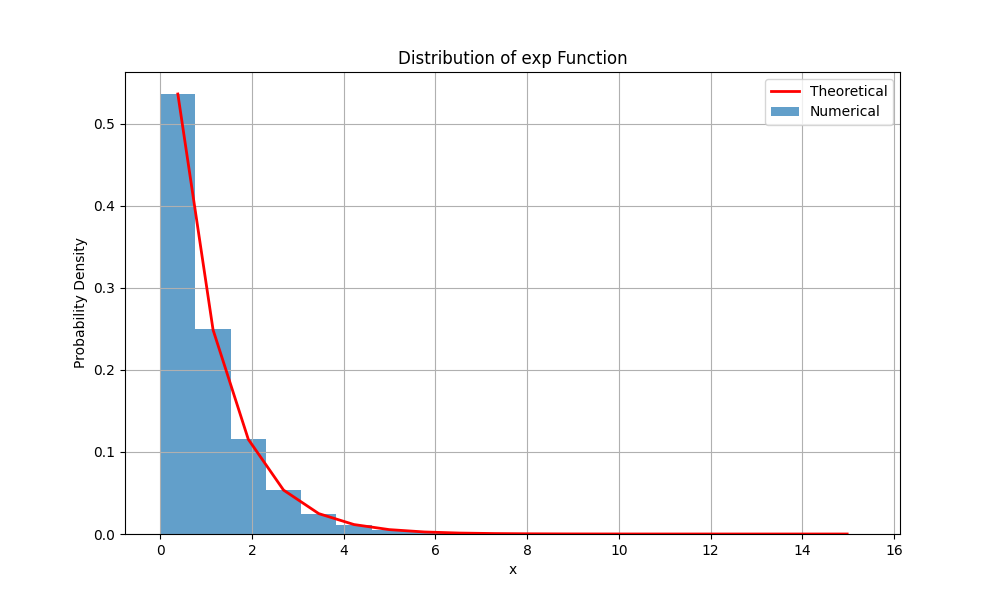
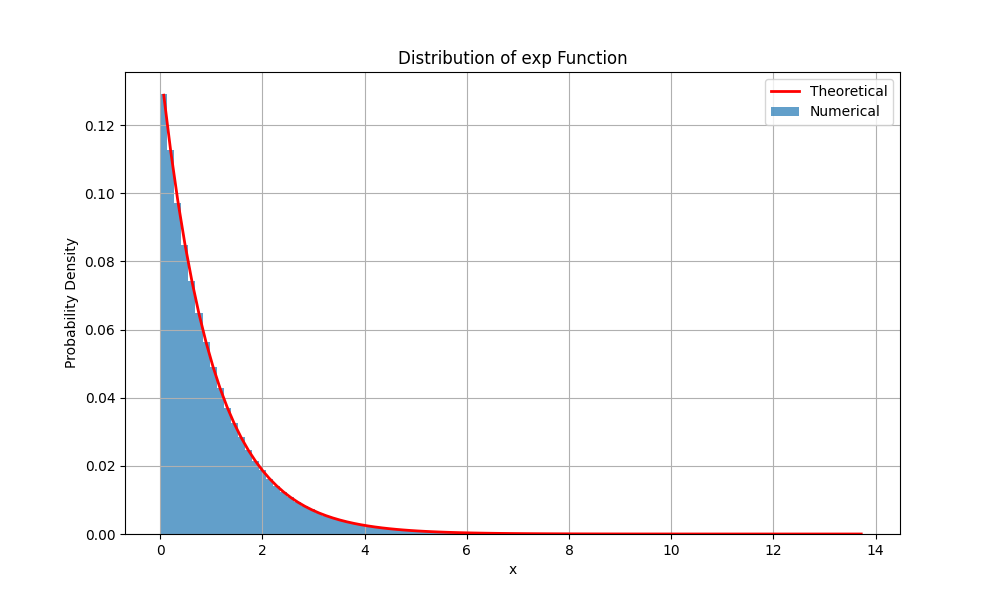
ex9p3

diff --git a/exercise09/gaussrng.cpp b/exercise09/gaussrng.cpp
@@ -1,0 +1,144 @@
+#include <iostream>
+#include <string>
+#include <random>
+#include <fstream>
+#include <chrono>
+#include <vector>
+#include <numeric>
+#include <algorithm>
+#include <sstream>
+#include <Eigen/Core>
+#include "eigenpy/eigenpy.hpp"
+using Eigen::MatrixXd;
+
+#define OFFSET_FROM_EXTREMES 0.1
+
+using namespace std;
+using namespace Eigen;
+
+// Random number generator
+auto seed = chrono::high_resolution_clock::now().time_since_epoch().count();
+mt19937 mt(seed);
+uniform_real_distribution<double> dist(0.0, 1.0);
+
+double getRandomUniform() {
+    return dist(mt);
+}
+
+/**
+ * @file gaussrng.cpp
+ * @brief Hard-coded Lorentz distribution function
+ * @param x x-axis value
+ * @param lambda rate parameter
+ */
+
+double lorentzDist(double x, double lambda) {
+    return (1.0 / M_PI) * (lambda / ((x * x) + (lambda * lambda)));
+}
+
+/**
+ * @file gaussrng.cpp
+ * @brief Box-Muller transform to generate Gaussian random numbers
+ * @param mu mean of the distribution
+ * @param sigma standard deviation of the distribution
+ * @return Returns a random number from a Gaussian distribution
+ */
+pair<double, double> gaussrng(double mu, double sigma) {
+    double z0, z1;
+    // Generate two uniform random numbers
+    double u1 = getRandomUniform();
+    double u2 = getRandomUniform();
+
+    // Apply the Box-Muller transform
+    z0 = sqrt(-2.0 * log(u1)) * cos(2.0 * M_PI * u2);
+    z1 = sqrt(-2.0 * log(u1)) * sin(2.0 * M_PI * u2);
+
+    // Scale and shift to get the desired mean and standard deviation
+    return make_pair(z0 * sigma + mu, z1 * sigma + mu);
+} 
+
+
+/**
+ * @file gaussrng.cpp
+ * @brief Create an M-bin histogram x and p values from the given data
+ * @param data vector of data points
+ * @param M number of bins
+ * @param min_x minimum x value for histogram
+ * @param max_x maximum x value for histogram
+ * @return Returns a pair of vectors containing x and p values for the histogram
+ */
+pair<vector<double>, vector<double>> create_histogram(const vector<double>& data, int M, double min_x = -10.0, double max_x = 10.0) {
+    vector<double> x(M);
+    vector<double> p(M, 0.0);
+
+    // Compute histogram
+    double bin_width = (max_x - min_x) / M;
+
+    for (const auto& value : data) {
+        int bin = static_cast<int>((value - min_x) / bin_width);
+        if (bin >= 0 && bin < M) {
+            p[bin]++;
+        }
+    }
+
+    // Normalize probabilities
+    double total = accumulate(p.begin(), p.end(), 0.0);
+    if (total > 0) {
+        for (auto& prob : p) {
+            prob /= total;
+        }
+    }
+
+    // Compute bin centers
+    for (int i = 0; i < M; ++i) {
+        x[i] = min_x + (i + 0.5) * bin_width;
+    }
+
+    return {x, p};
+}
+
+/**
+ * @file gaussrng.cpp
+ * @brief Function to create data following the Lorentz distribution by ration of two gaussian variables. The distribution is verified by comparing histogram with the actual distribution function.
+ * @param M Number of bins for the histogram
+ * @param N Number of samples to generate
+ * @param min_val Minimum x value for histogram
+ * @param max_val Maximum x value for histogram
+ * @return Returns a matrix containing x values, histogram probabilities, and function probabilities
+ */
+MatrixXd verifyLorentzDistribution(int M, int N, double min_x, double max_x) {
+
+    vector<double> data(N);
+    for (auto& value : data) {
+        auto [z0, z1] = gaussrng(0.0, 1.0);
+        value = z0 / z1;  // Generate Lorentz distribution by ratio of two Gaussian variables
+    }
+
+    vector<double> x_values(N);
+    for (int i = 0; i < N; ++i) {
+        x_values[i] = data[i];
+    }
+
+    auto [x_hist, p_hist] = create_histogram(x_values, M, min_x, max_x);
+
+    vector<double> p_func(M);
+    for (int i = 0; i < M; ++i) {
+        p_func[i] = lorentzDist(x_hist[i], 1.0);  // lambda = 1.0
+    }
+    
+    double integral = accumulate(p_func.begin(), p_func.end(), 0.0);
+    if (integral > 0) {
+        for (auto& prob : p_func) {
+            prob /= integral;
+        }
+    }
+
+    MatrixXd result(3, M);
+    for (int i = 0; i < M; ++i) {
+        result(0, i) = x_hist[i];
+        result(1, i) = p_hist[i];
+        result(2, i) = p_func[i];
+    }
+
+    return result;
+}

diff --git a/exercise09/gaussrngPlotDistribution.py b/exercise09/gaussrngPlotDistribution.py
@@ -1,0 +1,35 @@
+import numpy as np
+import matplotlib.pyplot as plt
+import os
+import sys
+
+# Get the absolute path to the build directory (relative to the script's location)
+current_dir = os.path.dirname(os.path.abspath(__file__))
+build_dir = os.path.join(current_dir, '..', 'build', 'exercise09')
+
+# Append the build directory to sys.path
+sys.path.append(build_dir)
+
+# Import the self-made module from the build directory
+
+import gaussrng as g
+
+# Call the verifyLorentzDistribution function
+result = g.verifyLorentzDistribution(100, 10**6, -10.0, 10.0)
+
+# Extract x and p values (numerical distribution) from the result
+x_values = result[0, :]
+p_values = result[1, :]
+# Extract pref (theoretical distribution) from the result
+pref = result[2, :]
+    
+# Plotting
+plt.figure(figsize=(10, 6))
+plt.bar(x_values, p_values, width=(x_values[1] - x_values[0]), alpha=0.7, label='Numerical')
+plt.plot(x_values, pref, color='red', linewidth=2, label='Theoretical')
+plt.title('Distribution of Lorentz Function')
+plt.xlabel('x')
+plt.ylabel('Probability Density')
+plt.grid()
+plt.legend()
+plt.savefig('lorentzByQuotient.png')

diff --git a/exercise09/problem2.cpp b/exercise09/problem2.cpp
@@ -8,7 +8,7 @@
 #include <algorithm>
 #include <sstream>
 
-#define OFFSET_FROM_EXTREMES 0.1
+#define OFFSET_FROM_EXTREMES 0.02
 
 using namespace std;
 
@@ -63,8 +63,7 @@ double lorentz_dist(double x) {
 double lorentz_dist_inv(double p) {
     if (p < 0 || p > 1) return -1;  // Invalid probability
     // Avoid p values too close to 0 or 1
-    if (p < OFFSET_FROM_EXTREMES) return lorentz_dist_inv(getRandomUniform());
-    else if (p > 1 - OFFSET_FROM_EXTREMES) return 1 - lorentz_dist_inv(getRandomUniform());
+    if (p < OFFSET_FROM_EXTREMES || p > 1 - OFFSET_FROM_EXTREMES) return lorentz_dist_inv(getRandomUniform());
     // Inverse CDF for Lorentz distribution
     return tan(M_PI * (p - 0.5));
 }

diff --git a/exercise09/gaussrngLink.cpp b/exercise09/gaussrngLink.cpp
@@ -1,0 +1,20 @@
+#include <iostream>
+#include <utility>
+#include <iomanip>
+#include <Eigen/Core>
+#include "eigenpy/eigenpy.hpp"
+using Eigen::MatrixXd;
+
+using namespace Eigen;
+using namespace std;
+
+// Declarations
+MatrixXd verifyLorentzDistribution(int M, int N, double min_x, double max_x);
+
+BOOST_PYTHON_MODULE(gaussrng) {
+  using namespace Eigen;
+  namespace bp = boost::python;
+  eigenpy::enableEigenPy();
+
+  bp::def("verifyLorentzDistribution", verifyLorentzDistribution);
+}

diff --git a/exercise09/problem2PlotDistribution.py b/exercise09/problem2PlotDistribution.py
@@ -43,7 +43,7 @@ def plot_distribution(func_name, M=20):
 
 if __name__ == "__main__":
 # Plot distributions for both functions and store into files
-    plot_distribution('exp', M=20)
+    plot_distribution('exp', M=100)
  
-    plot_distribution('lorentz', M=20)
+    plot_distribution('lorentz', M=100)
     

diff --git a/README.md b/README.md
@@ -139,6 +139,8 @@ Required dependencies and installation instructions are given below. The code ha
   - [Problem 2 plot exponential](exercise09/exp_distribution.png)
   - [Problem 2 plot Lorentz](exercise09/lorentz_distribution.png)
   - [Problem 2 test](exercise09/exercise9_2.txt)
+  - [Problem 3 code](exercise09/gaussrng.cpp)
+  - [Problem 3 plot](exercise09/lorentzByQuotient.png)
   
   
 
